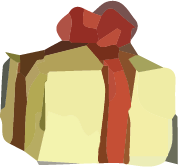
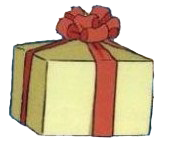
Add website images

diff --git a/game_objects.py b/game_objects.py
@@ -59,7 +59,7 @@ class Packages(Objects):
     def __init__(self):
         self.y = (random.randint((0 + constants.PACKAGE_HEIGHT)/10,
                   (constants.SCREEN_HEIGHT-constants.PACKAGE_HEIGHT)/10))*10
-        self.create_object('images/package_2.png', constants.SCREEN_WIDTH, self.y,
+        self.create_object('images/Package.png', constants.SCREEN_WIDTH, self.y,
                            0.25, False, False, 2)
 
 
